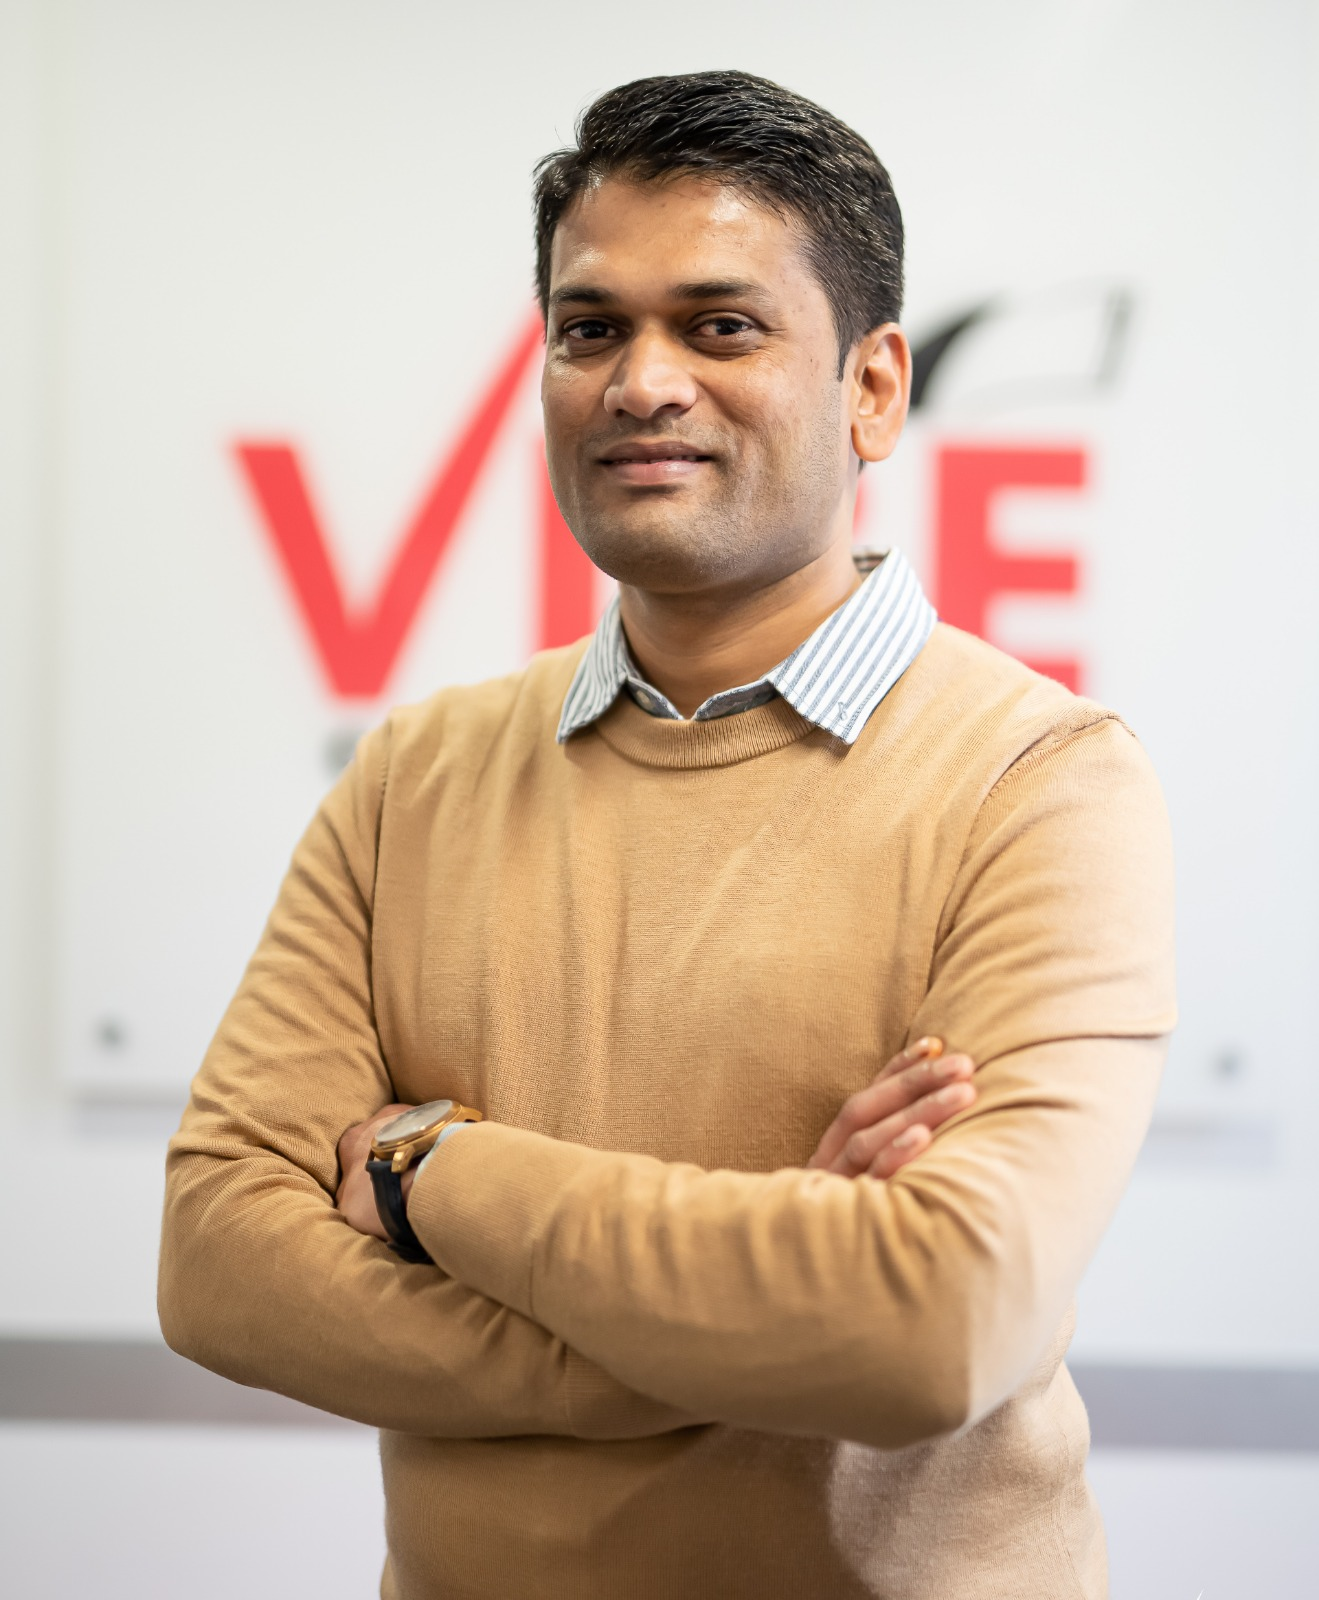
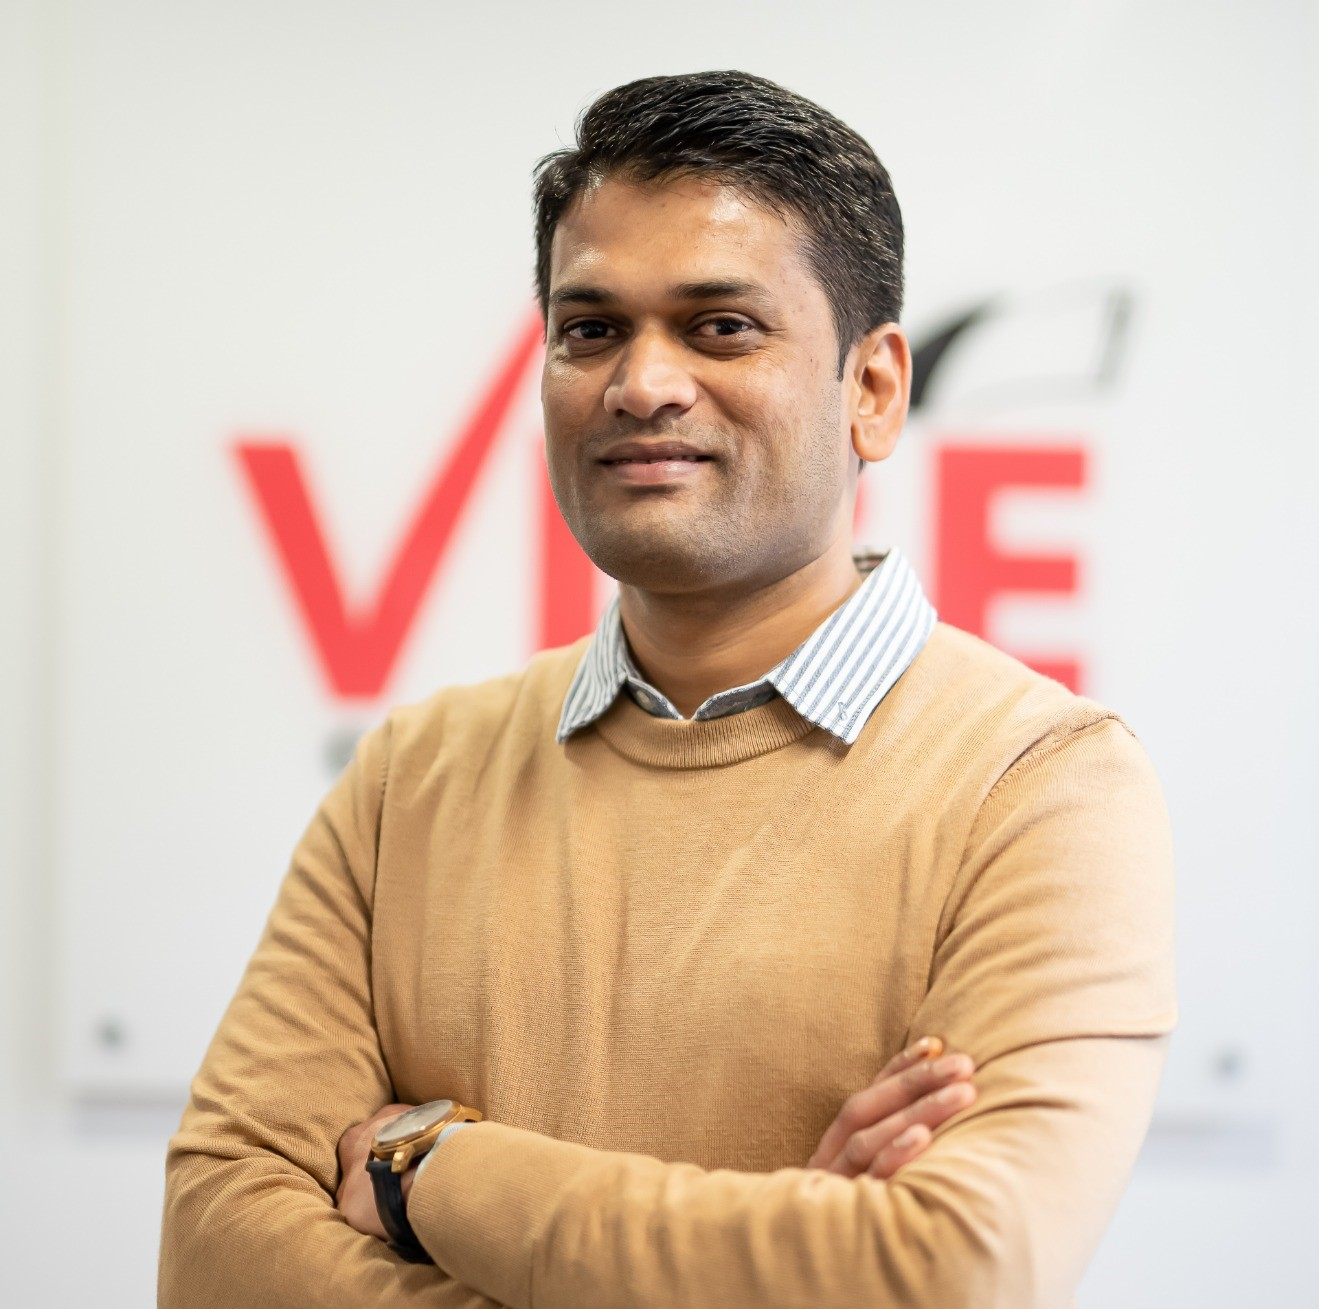
updates

diff --git a/src/pages/Collab.jsx b/src/pages/Collab.jsx
@@ -4,6 +4,7 @@ import partner1 from "../assets/partner1.jpg"; // Manoj
 import partner2 from "../assets/partner2.jpg"; // Abhimanyu
 import chef1 from "../assets/parag.jpg"; // Parag
 import chef2 from "../assets/vikram.png"; // Vikram
+import kedar from "../assets/kedar.jpg"
 
 const Collab = () => {
   const [showManojFull, setShowManojFull] = useState(false);
@@ -56,6 +57,17 @@ const Collab = () => {
       state: showVikramFull,
       setState: setShowVikramFull,
     },
+     {
+      id: 5,
+      name: "Kedar Lele",
+      role: "Training & Development, Mindset Architect, Hospitality Trainer, Emotional Intelligence Coach",
+      img: kedar,
+      short:
+        "With over 21 years of experience, Kedar spearheads employee training programs across all verticals, including F&B, Front Office, and Guest Experience, ensuring every team member embodies ZestEdge’s commitment to excellence.",
+      full: "With over 21 years of experience, Kedar spearheads employee training programs across all verticals, including F&B, Front Office, and Guest Experience, ensuring every team member embodies ZestEdge’s commitment to excellence. His pre-opening training modules are tailored to each concept’s ethos - whether boutique, quick service, or experiential dining - ensuring seamless launches and operational readiness.",
+      state: showVikramFull,
+      setState: setShowVikramFull,
+    },
   ];
 
   return (
@@ -88,13 +100,23 @@ const Collab = () => {
               md:h-[30vh] h-auto`}
             >
               {/* Image */}
-              <div className="w-full md:w-[40%] h-56 md:h-full">
+              {/* <div className="w-full md:w-[40%] h-56 md:h-full">
                 <img
                   src={person.img}
                   alt={person.name}
                   className="w-full h-full object-cover"
                 />
-              </div>
+              </div> */}
+
+              {/* Image */}
+<div className="w-full md:w-[40%] h-56 md:h-full flex items-center justify-center bg-white">
+  <img
+    src={person.img}
+    alt={person.name}
+    className="max-h-full w-auto object-contain rounded-lg"
+  />
+</div>
+
 
               {/* Text */}
               <div className="w-full md:w-[60%] p-4 md:p-6 flex flex-col justify-center text-center md:text-left">
@@ -130,6 +152,10 @@ export default Collab;
 
 
 
+// raining & Development | Mindset Architect | Hospitality Trainer | Emotional Intelligence Coach 
+//  With over 21 years of experience across leading hospitality brands and academic institutions, such as Holiday Inn, Radisson Blu, and various boutique resorts. Kedar, is a double graduate and a certified trainer & facilitator, who brings a rare blend of operational insight, emotional intelligence, and training excellence to ZestEdge Hospitality. As Lead - Training & Development, he plays a pivotal role in shaping the mindset, skillset, and service culture of our teams.
+
+// Kedar spearheads employee training programs across all verticals, including F&B, Front Office, and Guest Experience, ensuring every team member embodies ZestEdge’s commitment to excellence. His pre-opening training modules are tailored to each concept’s ethos - whether boutique, quick service, or experiential dining - ensuring seamless launches and operational readiness.
 
 
 

diff --git a/src/pages/Founder.jsx b/src/pages/Founder.jsx
@@ -8,7 +8,18 @@ const Founder = () => {
 
   return (
     <section id="founder" className="py-20 bg-brand-bg">
+       <motion.h2
+          initial={{ opacity: 0, y: -20 }}
+          whileInView={{ opacity: 1, y: 0 }}
+          transition={{ duration: 0.8 }}
+          viewport={{ once: true }}
+          className="text-3xl md:text-4xl font-heading text-center text-brand-text mb-12"
+        >
+          The Pioneers Behind ZestEdge Hospitality
+        </motion.h2>
       <div className="max-w-7xl mx-auto px-4 sm:px-6 lg:px-8 grid grid-cols-1 lg:grid-cols-2 gap-16 items-start">
+
+        
         {/* Founder 1 */}
         <motion.div
           initial={{ opacity: 0, x: -40 }}

diff --git a/src/components/Navbar.jsx b/src/components/Navbar.jsx
@@ -9,7 +9,7 @@ const Navbar = () => {
     { name: "Home", href: "#" },
     { name: "What's ZestEdge", href: "#about" },
     { name: "Know our founders", href: "#founder" },
-    { name: "Minds behind ZestEdge", href: "#team" },
+    { name: "Minds behind ZestEdge", href: "#minds-together" },
     { name: "What we provide", href: "#services" },
     { name: "Connect", href: "#contact" },
   ];
@@ -23,7 +23,7 @@ const Navbar = () => {
             <img
               src={logo} // replace with your logo path
               alt="ZestEdge"
-              className="h-10 w-auto"
+              className="h-20 w-auto"
             />
           </div>
 

diff --git a/src/pages/About.jsx b/src/pages/About.jsx
@@ -11,7 +11,7 @@ const About = () => {
           whileInView={{ opacity: 1, y: 0 }}
           transition={{ duration: 0.7, ease: "easeOut" }}
           viewport={{ once: true }}
-          className="text-3xl md:text-4xl font-heading text-brand-text mb-8 relative inline-block -mt-4"
+          className="text-3xl md:text-4xl font-heading text-#E2725B mb-8 relative inline-block -mt-4"
         >
           About ZestEdge Hospitality
           <span className="absolute -bottom-2 left-1/2 md:left-0 w-16 h-1 bg-brand-text transform -translate-x-1/2 md:translate-x-0"></span>

diff --git a/index.html b/index.html
@@ -2,7 +2,7 @@
 <html lang="en">
   <head>
     <meta charset="UTF-8" />
-    <link rel="icon" type="image/svg+xml" href="/logo.jpg" />
+    <link rel="icon" type="image/svg+xml" href="/logo.png" />
     <link href="https://fonts.googleapis.com/css2?family=Inter:wght@400;500;700&family=Playfair+Display:wght@400;600;700&display=swap" rel="stylesheet">
 
     <meta name="viewport" content="width=device-width, initial-scale=1.0" />
